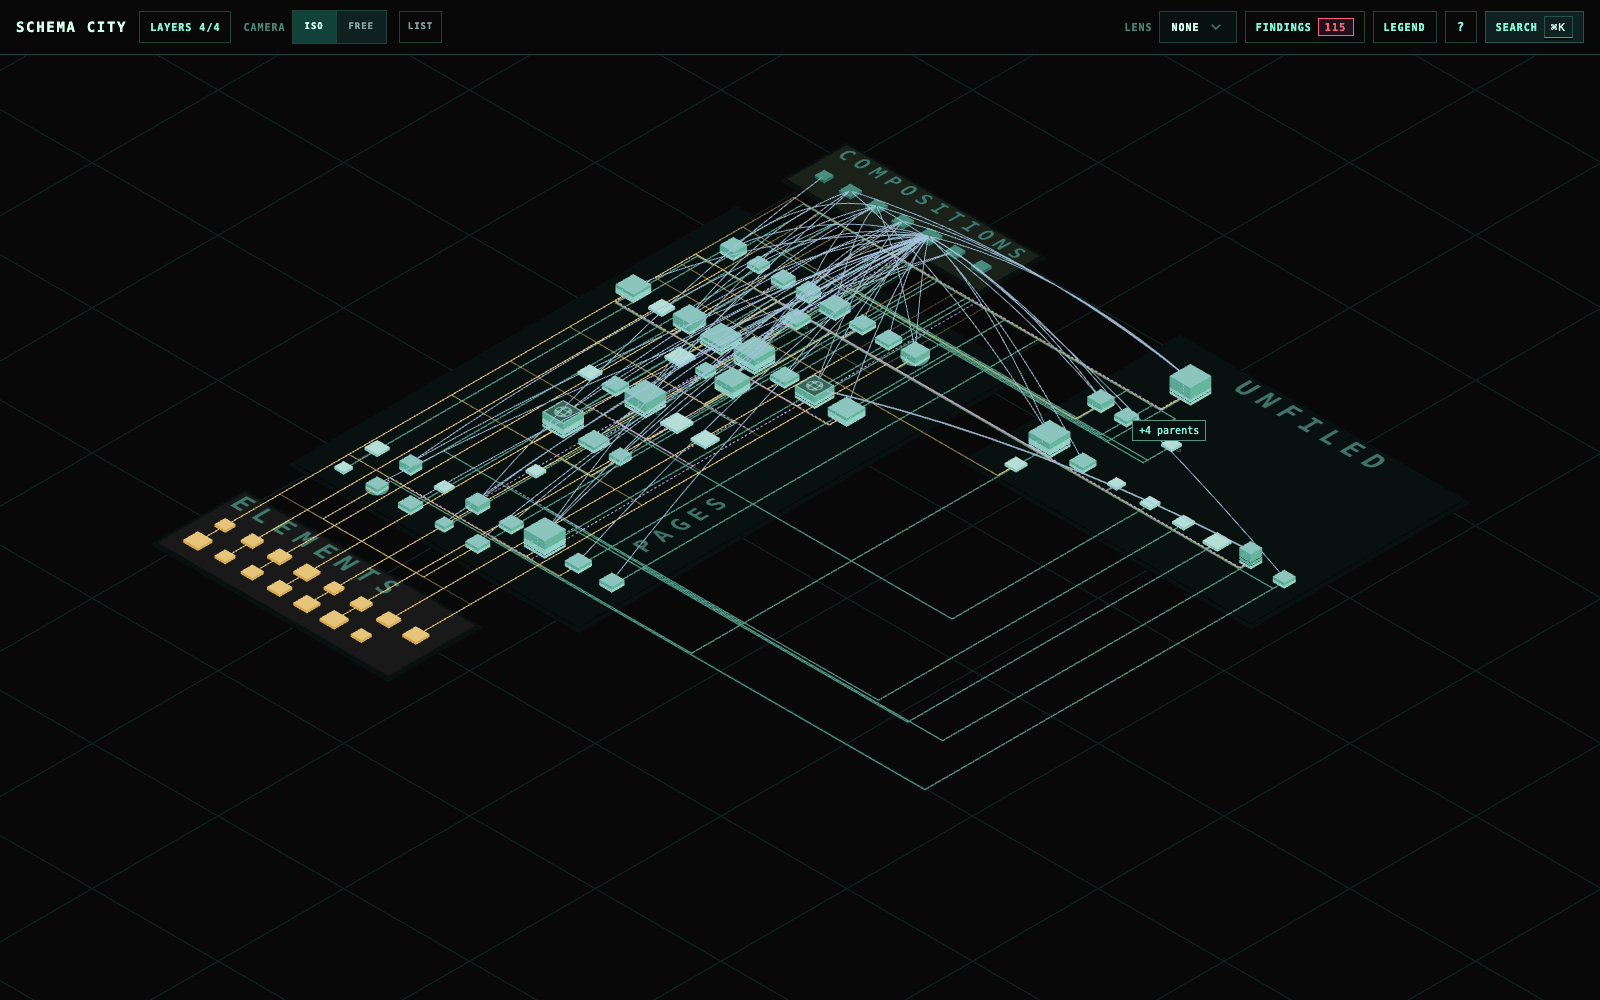
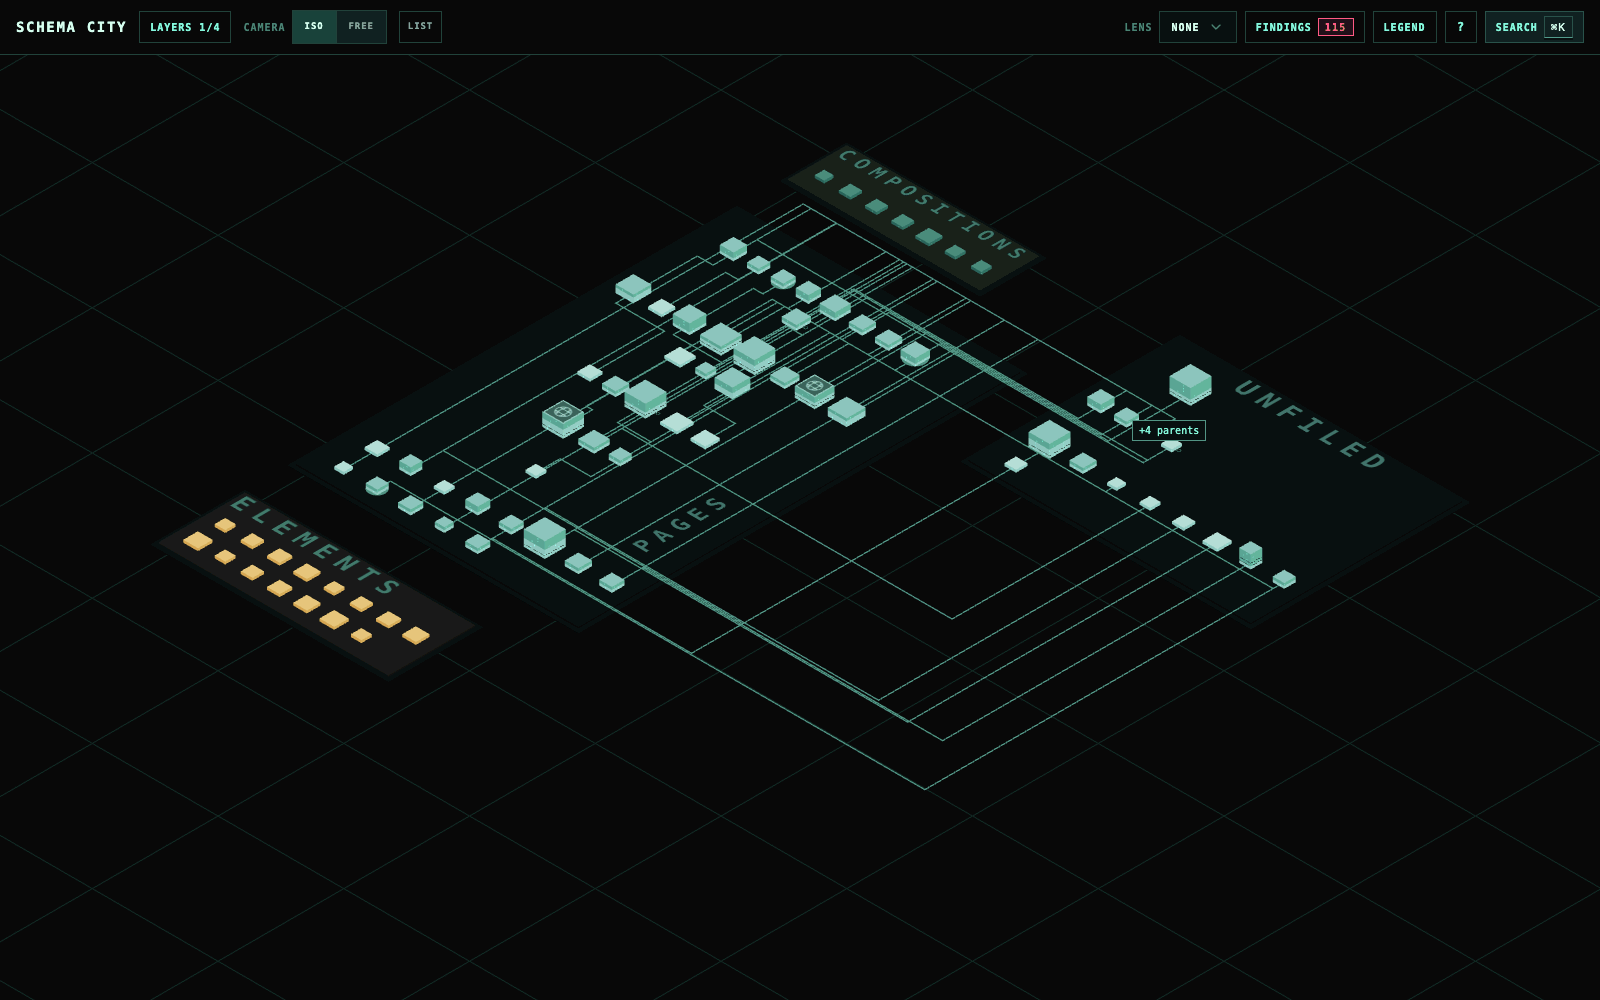
Retake city.png on the structure layer, and focus.png
All four layers at once put a hundred crossing links over the districts,
and at 1600 px the city under them stopped reading. The city shot takes
the default layer instead, which is what the sidebar opens on. free-camera
still carries all four. focus.png is retaken for the brighter roads.

city.png 91529 -> 58604 bytes, focus.png 79167 -> 78071.

diff --git a/README.md b/README.md
@@ -10,7 +10,7 @@ around. One building per Document Type, roads for the relationships between them
   type's properties, compositions, allowed children and block targets. Its Open in editor button
   goes to that type's editor. `⌘K` searches every type and property alias.
 
-  ![78 Document Types as buildings on four island districts, named Pages, Elements, Compositions and Unfiled, with all four kinds of road drawn between them.](docs/screenshots/city.png)
+  ![78 Document Types as buildings on four island districts, named Pages, Elements, Compositions and Unfiled, with the structure roads running between them.](docs/screenshots/city.png)
 
 - **Editor tab.** The Relationships tab on a Document Type editor opens the same map, focused on
   the type being edited.
